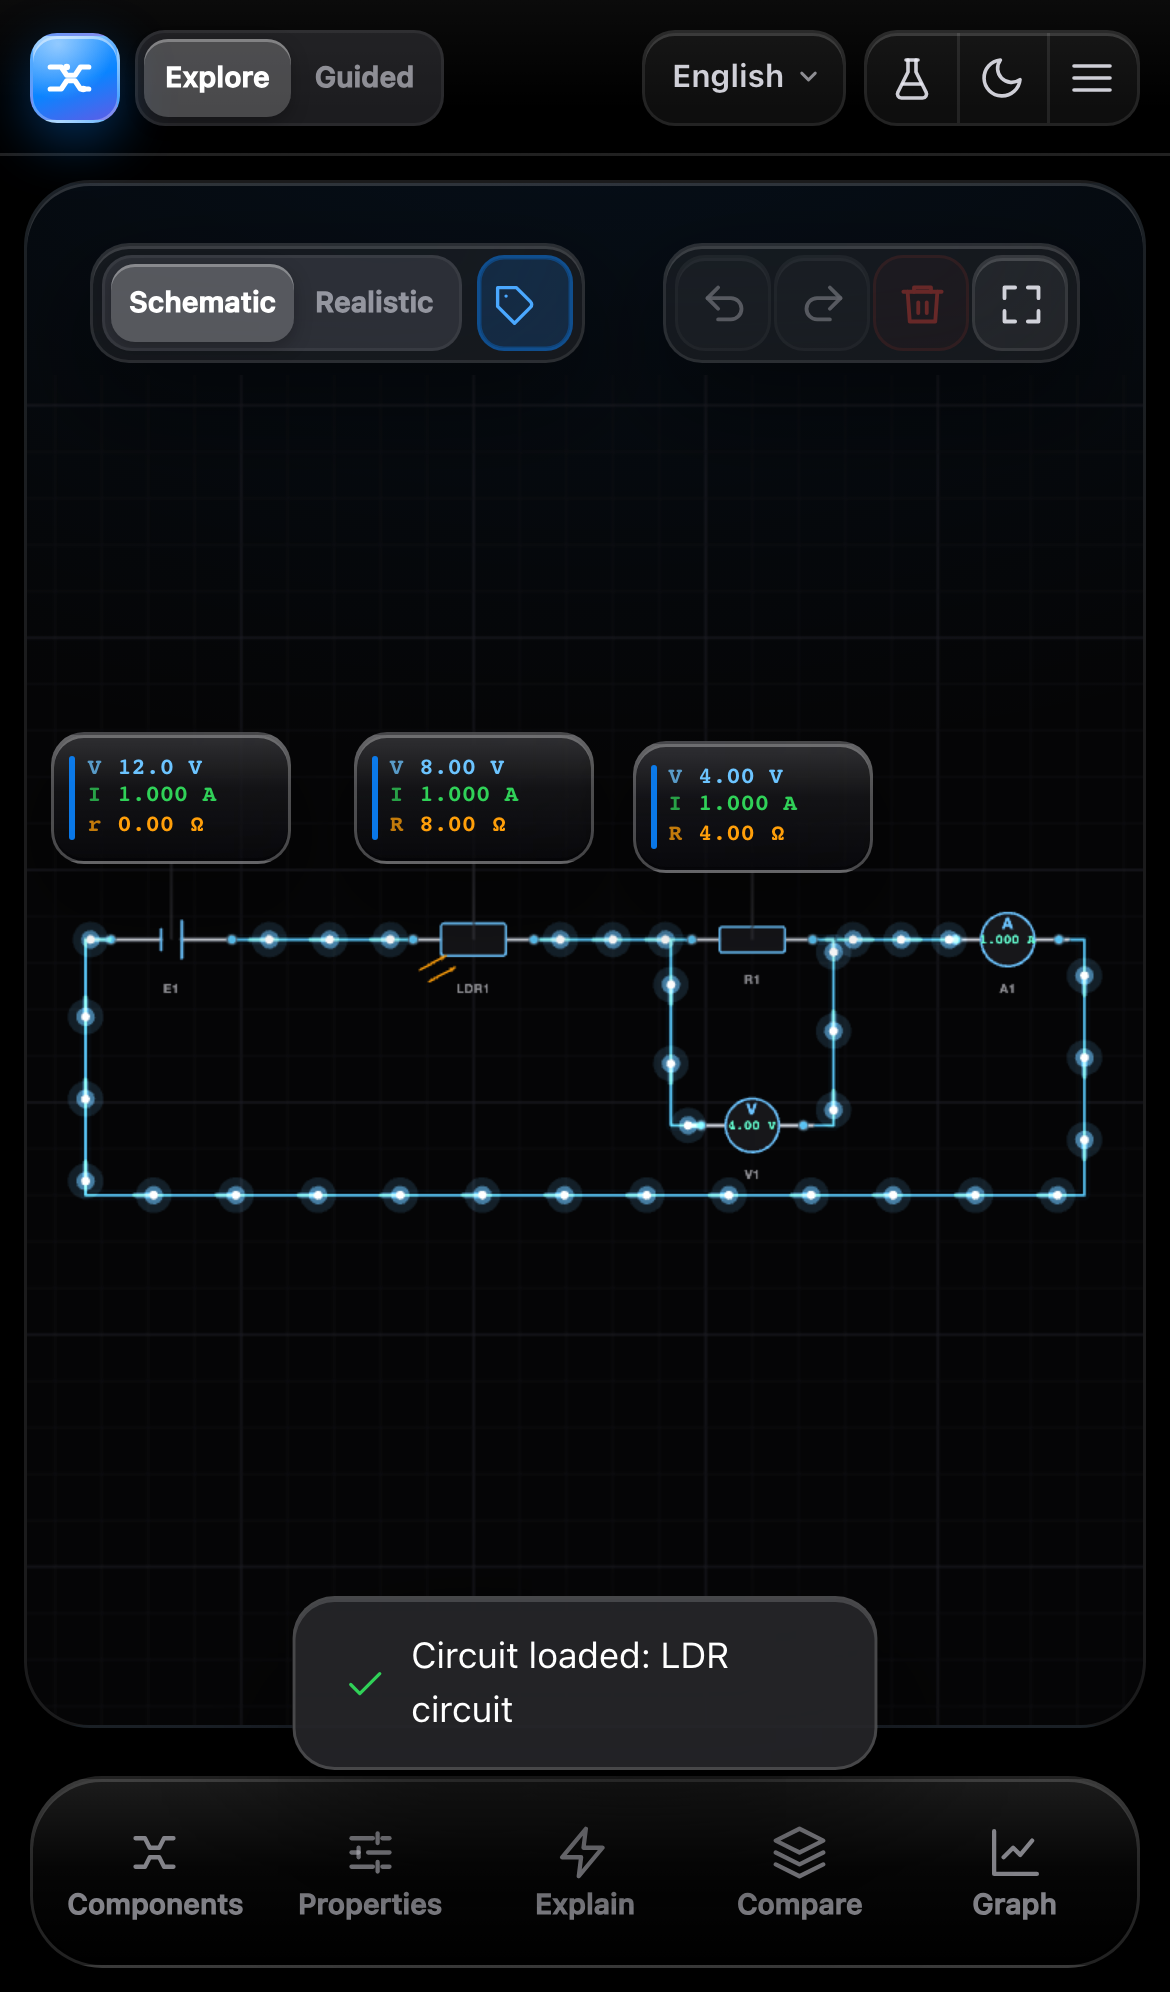
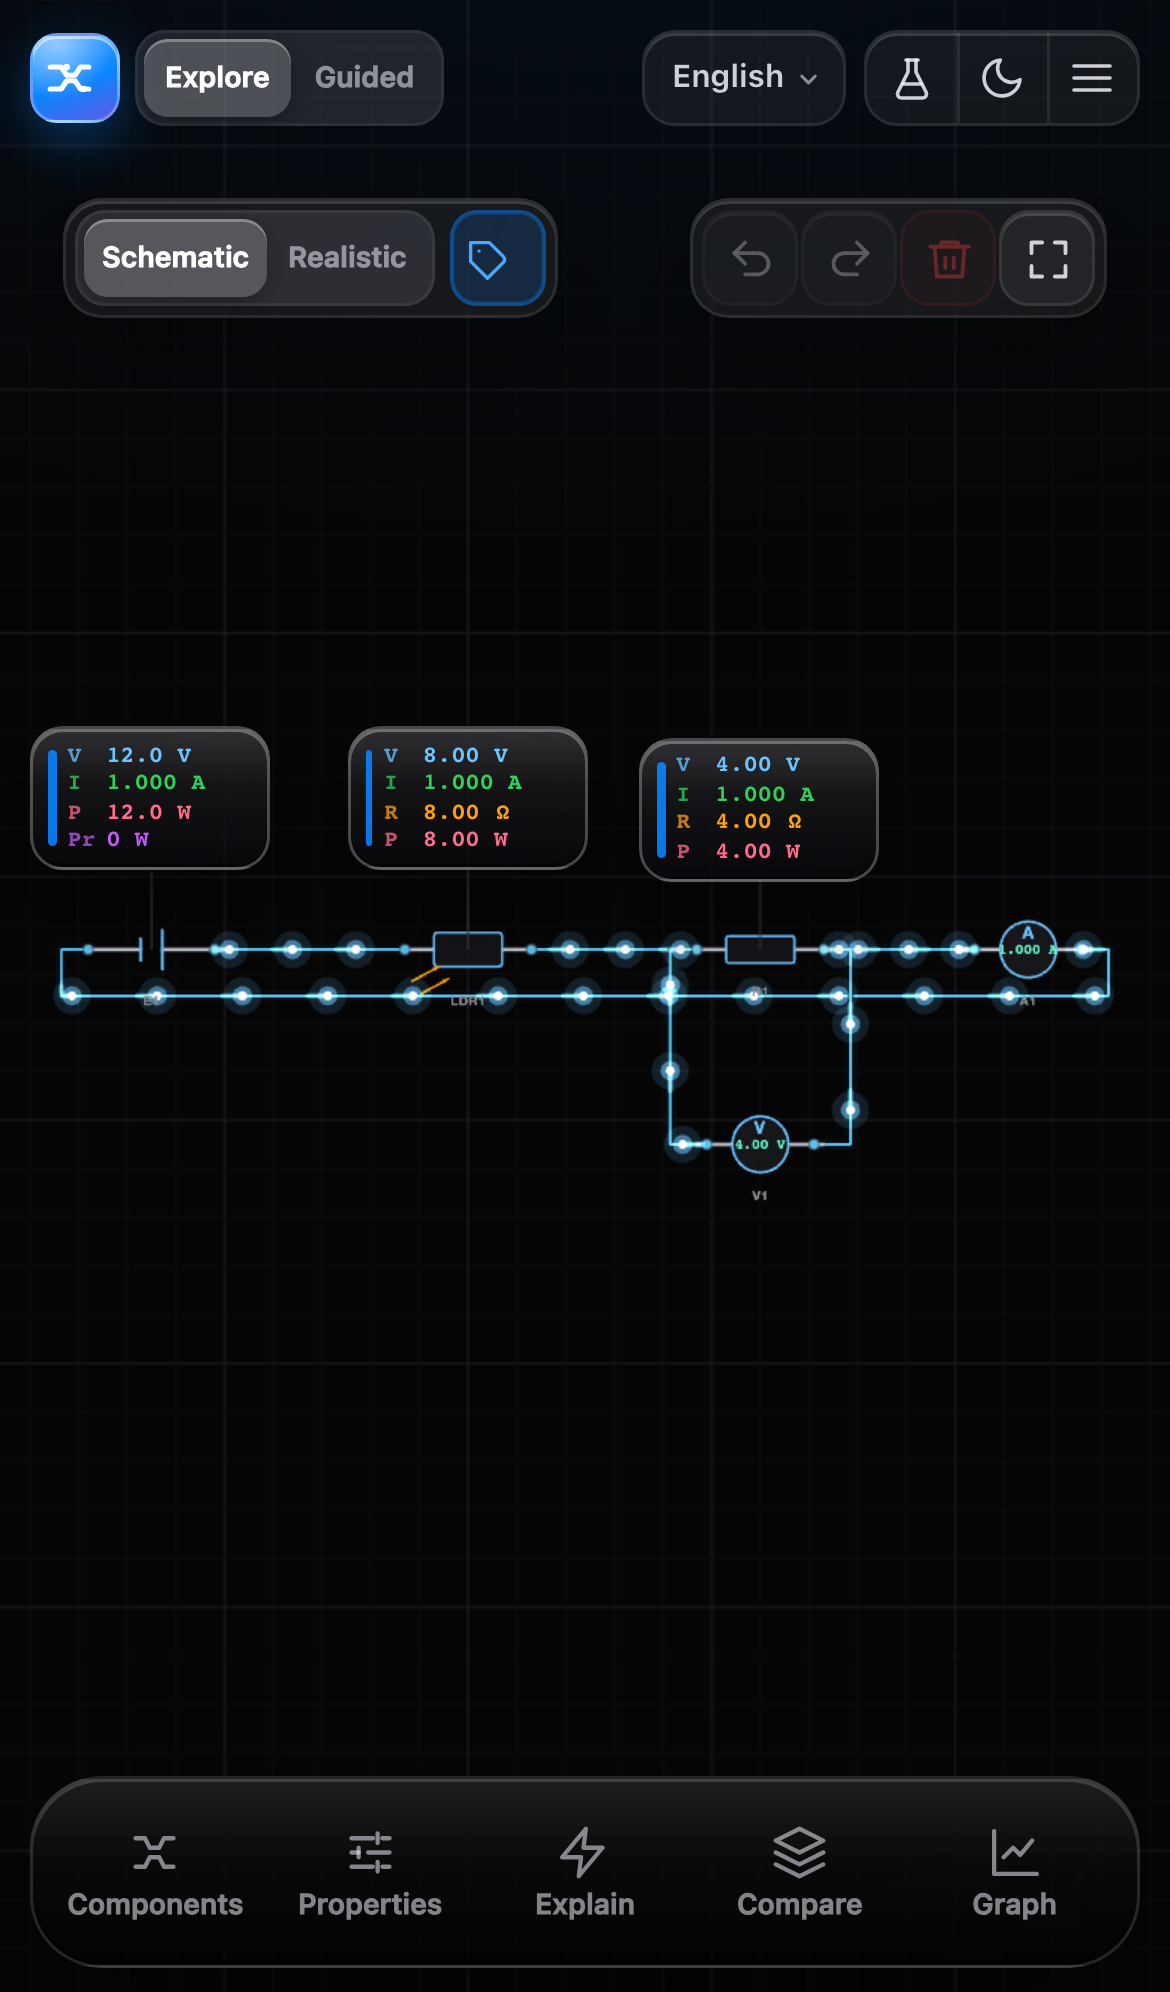
feat: float mobile controls over a full-bleed Liquid Glass canvas
- Mobile stage is now edge-to-edge: the canvas/grid runs behind the top controls, canvas toolbar and bottom tab dock; removed the separate top bar background, stage margin, rounded card and border
- Top bar is an absolute overlay with pointer-events none; only the mode switch, language picker and action cluster capture touches, so the drawing can be panned in the gaps; toolbar and dock blur the live drawing
- Fit and value cards use measured toolbar/tab-bar geometry (data-inset-top/bottom), covering notch safe areas and a wrapping toolbar instead of fixed constants
- e2e asserts the full-bleed canvas extends behind the dock and the top inset is measured; 69 unit / 41 Playwright checks green; live iPhone viewport verified

diff --git a/apps/web/src/components/CircuitCanvas.tsx b/apps/web/src/components/CircuitCanvas.tsx
@@ -54,6 +54,37 @@ export function CircuitCanvas({ compact = false, dockOpen = false }: Props) {
 
   const labels = useMemo(() => getDesignators(doc), [doc]);
   const experiment = experimentId ? getExperiment(experimentId) : null;
+  const canvasInsets = useCircuitStore((s) => s.canvasInsets);
+  const toolbarRef = useRef<HTMLDivElement>(null);
+
+  // ---- content insets -----------------------------------------------------
+  // The canvas is full-bleed on phones; fit and value cards avoid the real
+  // toolbar and tab-bar geometry (including notch safe areas and wrapping).
+  const applyInsets = useCallback(() => {
+    if (!compact) {
+      useCircuitStore.getState().setCanvasInsets({ top: 0, bottom: 0 });
+      return;
+    }
+    const host = hostRef.current?.getBoundingClientRect();
+    const toolbar = toolbarRef.current?.getBoundingClientRect();
+    const tabbar = document.querySelector('.mobile-tabbar')?.getBoundingClientRect();
+    const top = host && toolbar ? Math.max(0, toolbar.bottom - host.top + 12) : 118;
+    const bottom = host && tabbar ? Math.max(0, host.bottom - tabbar.top + 12) : 96;
+    useCircuitStore.getState().setCanvasInsets({ top, bottom });
+  }, [compact]);
+
+  useEffect(() => {
+    applyInsets();
+    const raf = requestAnimationFrame(applyInsets);
+    window.addEventListener('resize', applyInsets);
+    const observer = toolbarRef.current ? new ResizeObserver(applyInsets) : null;
+    if (observer && toolbarRef.current) observer.observe(toolbarRef.current);
+    return () => {
+      cancelAnimationFrame(raf);
+      window.removeEventListener('resize', applyInsets);
+      observer?.disconnect();
+    };
+  }, [applyInsets]);
 
   // ---- renderer lifecycle -------------------------------------------------
   useEffect(() => {
@@ -111,8 +142,9 @@ export function CircuitCanvas({ compact = false, dockOpen = false }: Props) {
       showValues,
       labels,
       reduceMotion: getReducedMotion(),
+      contentInsets: canvasInsets,
     });
-  }, [ready, doc, solution, viewMode, theme, quality, selectionId, selectedWireId, wiringFrom, highlightIds, showGrid, showValues, labels]);
+  }, [ready, doc, solution, viewMode, theme, quality, selectionId, selectedWireId, wiringFrom, highlightIds, showGrid, showValues, labels, canvasInsets]);
 
   useEffect(() => {
     rendererRef.current?.setView(view);
@@ -404,7 +436,7 @@ export function CircuitCanvas({ compact = false, dockOpen = false }: Props) {
       <div
         ref={hostRef}
         className="canvas-host"
-        style={{ top: compact ? 64 : 0, bottom: dockOpen ? 346 : 0 }}
+        style={{ top: 0, bottom: compact ? 0 : dockOpen ? 346 : 0 }}
         onPointerDown={handlePointerDown}
         onPointerMove={handlePointerMove}
         onPointerUp={handlePointerUp}
@@ -415,7 +447,7 @@ export function CircuitCanvas({ compact = false, dockOpen = false }: Props) {
         <canvas ref={canvasRef} />
       </div>
 
-      <div className="stage-overlay-top">
+      <div className="stage-overlay-top" ref={toolbarRef}>
         <div className="tool-strip">
           <Segmented
             value={viewMode}

diff --git a/apps/web/src/store.ts b/apps/web/src/store.ts
@@ -136,6 +136,8 @@ interface CircuitState {
   hoverTerminal: { componentId: string; terminalId: string } | null;
   view: ViewportState;
   viewport: { width: number; height: number };
+  /** Screen-space areas covered by floating controls; the fit avoids them. */
+  canvasInsets: { top: number; bottom: number };
   viewMode: ViewMode;
   theme: ThemeMode;
   language: Language;
@@ -183,6 +185,7 @@ interface CircuitState {
   panBy: (dx: number, dy: number) => void;
   zoomAt: (screenX: number, screenY: number, factor: number) => void;
   setViewport: (width: number, height: number) => void;
+  setCanvasInsets: (insets: { top: number; bottom: number }) => void;
   fitView: () => void;
   resetView: () => void;
 
@@ -236,6 +239,7 @@ export const useCircuitStore = create<CircuitState>()((set, get) => ({
   hoverTerminal: null,
   view: { x: 80, y: 80, zoom: 1 },
   viewport: { width: 900, height: 600 },
+  canvasInsets: { top: 0, bottom: 0 },
   viewMode: initialPrefs.viewMode,
   theme: initialPrefs.theme,
   language: initialPrefs.language,
@@ -567,31 +571,42 @@ export const useCircuitStore = create<CircuitState>()((set, get) => ({
       const next = { viewport: { width, height } };
       if (first && width > 0 && height > 0) {
         const bounds = documentBounds(state.doc);
-        const scale = Math.min(width / bounds.width, height / bounds.height, 1.4);
+        const insets = state.canvasInsets;
+        const available = Math.max(1, height - insets.top - insets.bottom);
+        const scale = Math.min(width / bounds.width, available / bounds.height, 1.4);
         const zoom = Math.max(0.3, scale * 0.96);
         return {
           ...next,
           view: {
             zoom,
             x: width / 2 - (bounds.x + bounds.width / 2) * zoom,
-            y: height / 2 - (bounds.y + bounds.height / 2) * zoom,
+            y: insets.top + available / 2 - (bounds.y + bounds.height / 2) * zoom,
           },
         };
       }
       return next;
     }),
 
+  setCanvasInsets: (insets) =>
+    set((state) =>
+      state.canvasInsets.top === insets.top && state.canvasInsets.bottom === insets.bottom
+        ? {}
+        : { canvasInsets: { ...insets } },
+    ),
+
   fitView: () => {
     const state = get();
     const { width, height } = state.viewport;
     if (width <= 1 || height <= 1) return;
     const bounds = documentBounds(state.doc);
-    const zoom = Math.max(0.25, Math.min(width / bounds.width, height / bounds.height, 1.6) * 0.97);
+    const insets = state.canvasInsets;
+    const available = Math.max(1, height - insets.top - insets.bottom);
+    const zoom = Math.max(0.25, Math.min(width / bounds.width, available / bounds.height, 1.6) * 0.97);
     set({
       view: {
         zoom,
         x: width / 2 - (bounds.x + bounds.width / 2) * zoom,
-        y: height / 2 - (bounds.y + bounds.height / 2) * zoom,
+        y: insets.top + available / 2 - (bounds.y + bounds.height / 2) * zoom,
       },
     });
   },

diff --git a/apps/web/src/styles.css b/apps/web/src/styles.css
@@ -155,6 +155,9 @@ button {
   flex-direction: column;
   flex: 1;
   min-height: 0;
+  position: relative;
+  height: 100%;
+  overflow: hidden;
 }
 
 kbd {
@@ -2187,31 +2190,32 @@ textarea.input {
     display: none;
   }
   .app-shell {
-    padding-bottom: calc(80px + var(--safe-bottom));
+    padding-bottom: 0;
     background: var(--bg);
   }
   .topbar {
     display: none;
   }
   .mobile-topbar {
+    position: absolute;
+    top: 0;
+    left: 0;
+    right: 0;
     display: flex;
     align-items: center;
     gap: 5px;
     padding: 7px 10px;
     padding-top: calc(7px + var(--safe-top));
-    background:
-      linear-gradient(180deg, rgba(255, 255, 255, 0.045), transparent 72%),
-      color-mix(in srgb, var(--bg) 76%, transparent);
-    -webkit-backdrop-filter: blur(30px) saturate(180%);
-    backdrop-filter: blur(30px) saturate(180%);
-    border-bottom: 0.5px solid var(--line);
+    background: none;
+    border: 0;
+    pointer-events: none;
     z-index: 20;
     min-height: 52px;
   }
-  .light .mobile-topbar {
-    background:
-      linear-gradient(180deg, rgba(255, 255, 255, 0.92), rgba(255, 255, 255, 0.6)),
-      color-mix(in srgb, var(--bg) 82%, transparent);
+  .mobile-topbar .mobile-mode,
+  .mobile-topbar .lang-select,
+  .mobile-topbar .mobile-actions {
+    pointer-events: auto;
   }
   .mobile-topbar .brand-text {
     display: none;
@@ -2223,16 +2227,23 @@ textarea.input {
     flex-shrink: 0;
   }
   .mobile-stage {
-    flex: 1;
-    position: relative;
-    margin: 8px;
-    border-radius: 22px;
-    border: 0.5px solid var(--line);
+    position: absolute;
+    inset: 0;
+    margin: 0;
+    border-radius: 0;
+    border: 0;
     overflow: hidden;
     background:
       radial-gradient(700px 380px at 50% -10%, rgba(10, 132, 255, 0.08), transparent 65%),
       var(--stage);
-    box-shadow: var(--shadow-panel), var(--inner-light);
+    box-shadow: none;
+    z-index: 0;
+  }
+  .mobile-stage .stage-overlay-top {
+    top: calc(var(--safe-top) + 58px);
+  }
+  .mobile-stage .stage-overlay-bottom {
+    bottom: calc(86px + var(--safe-bottom));
   }
   .mobile-tabbar {
     position: fixed;

diff --git a/packages/circuit-renderer/src/renderer.ts b/packages/circuit-renderer/src/renderer.ts
@@ -34,6 +34,8 @@ export interface RenderState {
   showValues?: boolean;
   labels?: Record<string, string>;
   reduceMotion?: boolean;
+  /** Screen-space areas covered by floating mobile controls. */
+  contentInsets?: { top: number; bottom: number };
 }
 
 interface Flow {
@@ -579,12 +581,14 @@ export class CircuitRenderer {
         { x: b.x + b.width + gap + 18, y: b.y + b.height + gap + 18 },
         { x: b.x - W - gap - 18, y: b.y - H - gap - 18 },
       ];
-      const topInset = compact ? 8 : 64;
+      const insets = this.state?.contentInsets ?? { top: 0, bottom: 0 };
+      const topInset = Math.max(compact ? 116 : 64, insets.top + 4);
+      const bottomInset = Math.max(compact ? 92 : 10, insets.bottom + 4);
       const inCanvas = (rect: { x: number; y: number; width: number; height: number }) =>
         rect.x >= 8 &&
         rect.y >= topInset &&
         rect.x + rect.width <= this.width - 8 &&
-        rect.y + rect.height <= this.height - 10;
+        rect.y + rect.height <= this.height - bottomInset;
       let chosen: { x: number; y: number } | null = null;
       for (const candidate of candidates) {
         const rect = { ...candidate, width: W, height: H };

diff --git a/e2e/mobile.spec.ts b/e2e/mobile.spec.ts
@@ -24,6 +24,17 @@ test.describe('CircuitLab mobile', () => {
     const firstBox = await tabs.first().boundingBox();
     expect(firstBox?.height ?? 0).toBeGreaterThanOrEqual(44);
     await expect(page.locator('.canvas-host canvas').first()).toBeVisible();
+
+    // Full-bleed canvas: the drawing extends behind the floating dock.
+    const hostBox = await page.locator('.canvas-host').first().boundingBox();
+    const tabbarBox = await page.locator('.mobile-tabbar').boundingBox();
+    expect(hostBox).not.toBeNull();
+    expect(tabbarBox).not.toBeNull();
+    expect((hostBox?.y ?? 0) + (hostBox?.height ?? 0)).toBeGreaterThanOrEqual(
+      (tabbarBox?.y ?? 0) + (tabbarBox?.height ?? 0),
+    );
+    const insetTop = Number(await state(page).getAttribute('data-inset-top'));
+    expect(insetTop).toBeGreaterThan(80);
   });
 
   test('adds a component from the sheet and edits it', async ({ page }) => {

diff --git a/apps/web/src/App.tsx b/apps/web/src/App.tsx
@@ -99,6 +99,7 @@ function CircuitDiagnostics() {
   const language = useCircuitStore((s) => s.language);
   const refDoc = useCircuitStore((s) => s.refDoc);
   const view = useCircuitStore((s) => s.view);
+  const canvasInsets = useCircuitStore((s) => s.canvasInsets);
   const selectionId = useCircuitStore((s) => s.selectionId);
   const selectedWireId = useCircuitStore((s) => s.selectedWireId);
   const sheet = useCircuitStore((s) => s.mobileSheet);
@@ -119,6 +120,8 @@ function CircuitDiagnostics() {
       data-has-baseline={refDoc ? 'true' : 'false'}
       data-view-x={view.x}
       data-view-y={view.y}
+      data-inset-top={canvasInsets.top}
+      data-inset-bottom={canvasInsets.bottom}
       data-zoom={view.zoom}
       data-selection={selectionId ?? ''}
       data-selected-wire={selectedWireId ?? ''}

diff --git a/docs/agent-progress.md b/docs/agent-progress.md
@@ -117,6 +117,13 @@ Last updated: 2026-11-01 (Phase 1 build + review fixes)
 - Fixed `totalPowerDelivered`/`totalPowerDissipated`: the solver iterated `Object.values` over a Map (always empty), so these totals were reported as 0. They now use `readings.values()`; the tests assert 22 W external and 22 W dissipated for a 12 V, 0.5 Ω source driving 5.5 Ω.
 - Tests: source-power physics test, source-power inspector/measurements e2e and value-card row assertions. 69 unit / 41 Playwright checks.
 
+## Floating mobile glass shell (fourteenth review)
+
+- The mobile stage is now full-bleed: the canvas and grid run edge to edge behind the top controls, the canvas toolbar and the bottom tab dock. The old separate top bar background, stage margin, rounded card and border are gone.
+- The top bar is an absolute overlay with `pointer-events: none`; only the mode switch, language picker and action cluster capture touches, so the drawing can be panned in the gaps. The toolbar and dock remain glass and now blur the live drawing underneath.
+- The fit and the value cards use the measured toolbar/tab-bar geometry (`data-inset-top` / `data-inset-bottom`), including notch safe areas and a wrapping toolbar, instead of fixed 118/96 guesses.
+- E2E asserts the full-bleed canvas extends behind the dock and that the top inset is measured. 69 unit / 41 Playwright checks.
+
 ## Known limitations
 
 - RC transients support exactly one capacitor.

diff --git a/README.md b/README.md
@@ -81,6 +81,7 @@ stays at the supply voltage and only the LDR branch current changes.
 | Manual wire adjustment: drag a wire to reshape it, handles on movable segments, reset to automatic | ✅ |
 | Two distinct variable components: 2-terminal adjustable resistor and 3-terminal sliding rheostat with a wiper divider | ✅ |
 | Real-time source power breakdown: terminal/external power and I²r internal power, with the `P_EMF = P_ext + P_r` balance | ✅ |
+| Mobile liquid-glass overlays: the top bar controls, canvas toolbar and bottom dock float over the full-bleed drawing; the fit and value cards measure the real control insets (including safe areas) | ✅ |
 | Apple-style Liquid Glass UI, pure-black dark theme, full light theme | ✅ |
 | Live V / I / R / P cards in real Liquid Glass (DOM + backdrop blur), toggled by a labelled **Values** switch; source cards add external and internal-resistance power | ✅ |
 | Strict card placement: never overlaps components, designators, other cards or wires (hidden if no free spot) | ✅ |

diff --git a/docs/verification.md b/docs/verification.md
@@ -48,6 +48,7 @@ site.
 | Component distinction | ✅ library offers "Adjustable resistor" (2-wire) and "Sliding rheostat" (3-wire), with separate names, glyphs, terminals and inspectors |
 | Power on value cards | ✅ V / I / R / P rows; source cards show external power and Pr = I²r |
 | Source power breakdown | ✅ inspector + Measurements show external 10.00 W, internal 2.00 W for E = 6 V, r = 0.50 Ω, I = 2 A, with P_EMF = 12.00 W |
+| Mobile floating glass shell | ✅ full-bleed canvas behind the top controls, toolbar and tab dock; measured top/bottom insets keep the fit and value cards clear; e2e asserts the canvas extends behind the dock |
 | Phone toolbar | ✅ every control visible at 320–412 px, nothing clipped by the stage |
 | Phone top bar | ✅ grouped icon cluster, styled language picker, theme toggle, no page overflow |
 | Phone value cards | ✅ 80 × 44 compact cards fit three in a row; desktop keeps the larger cards |
